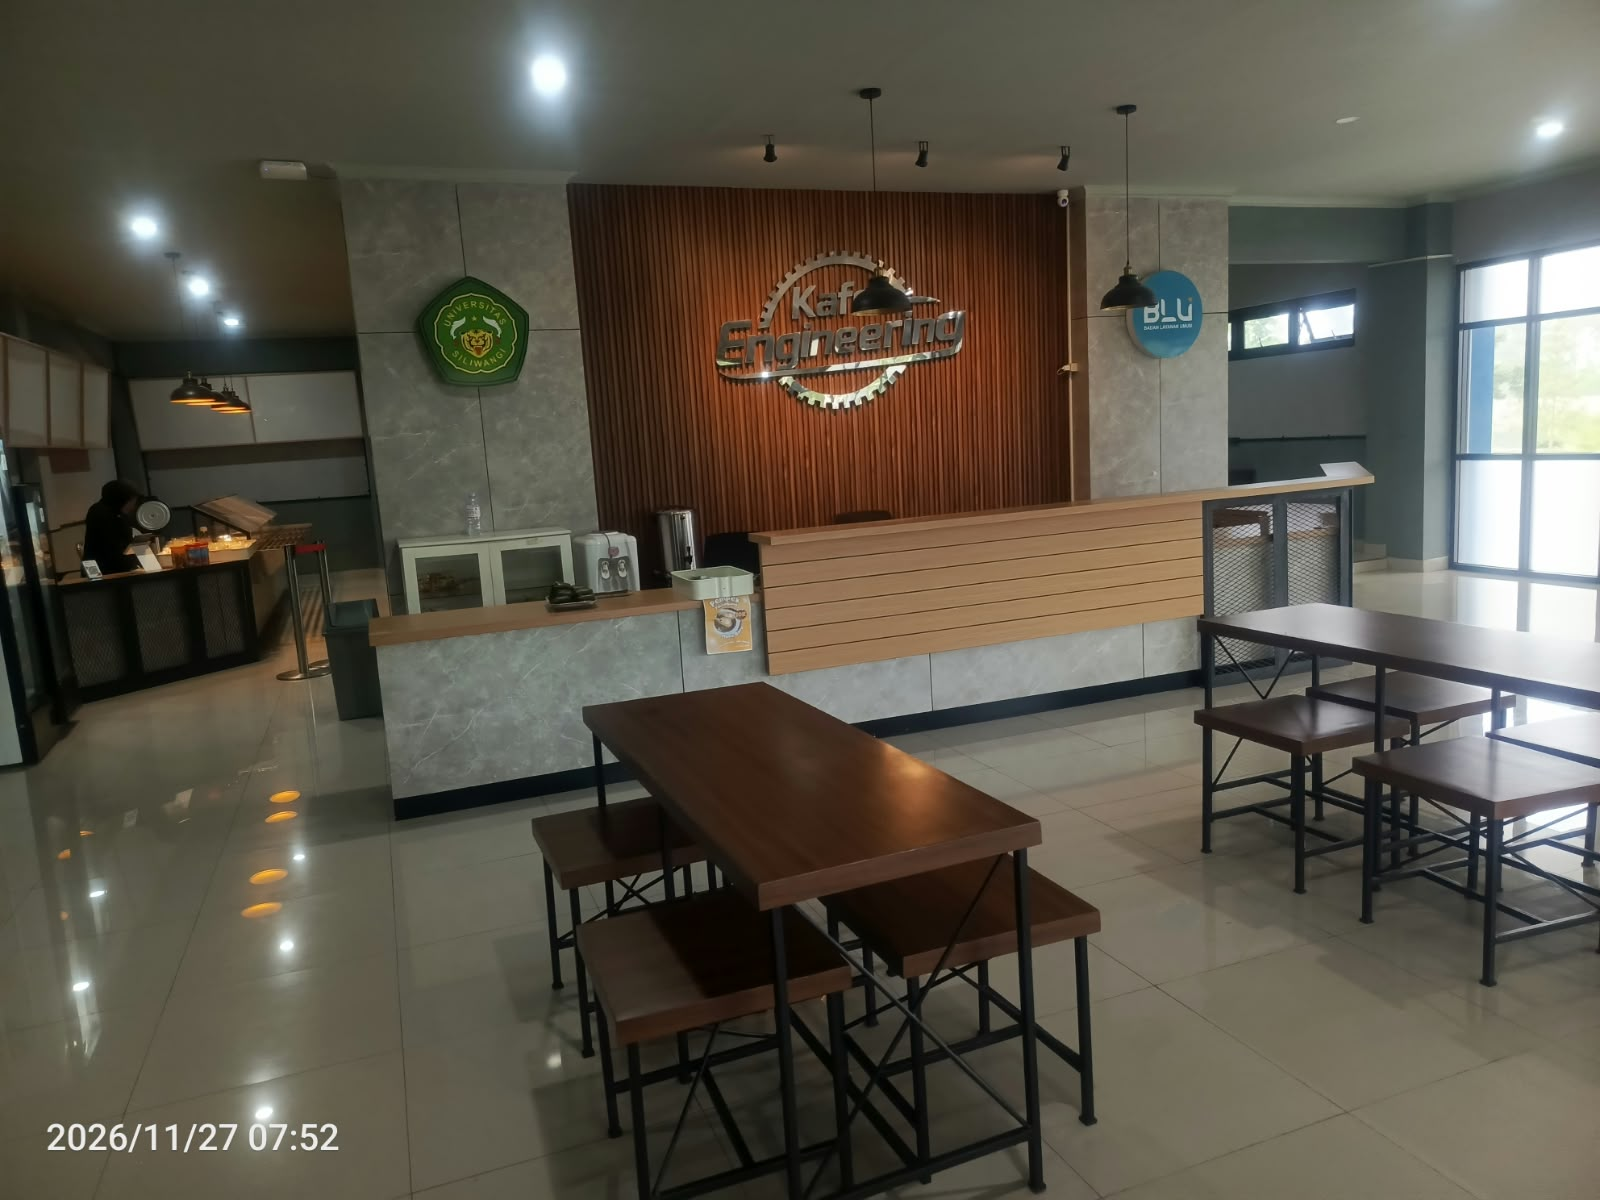
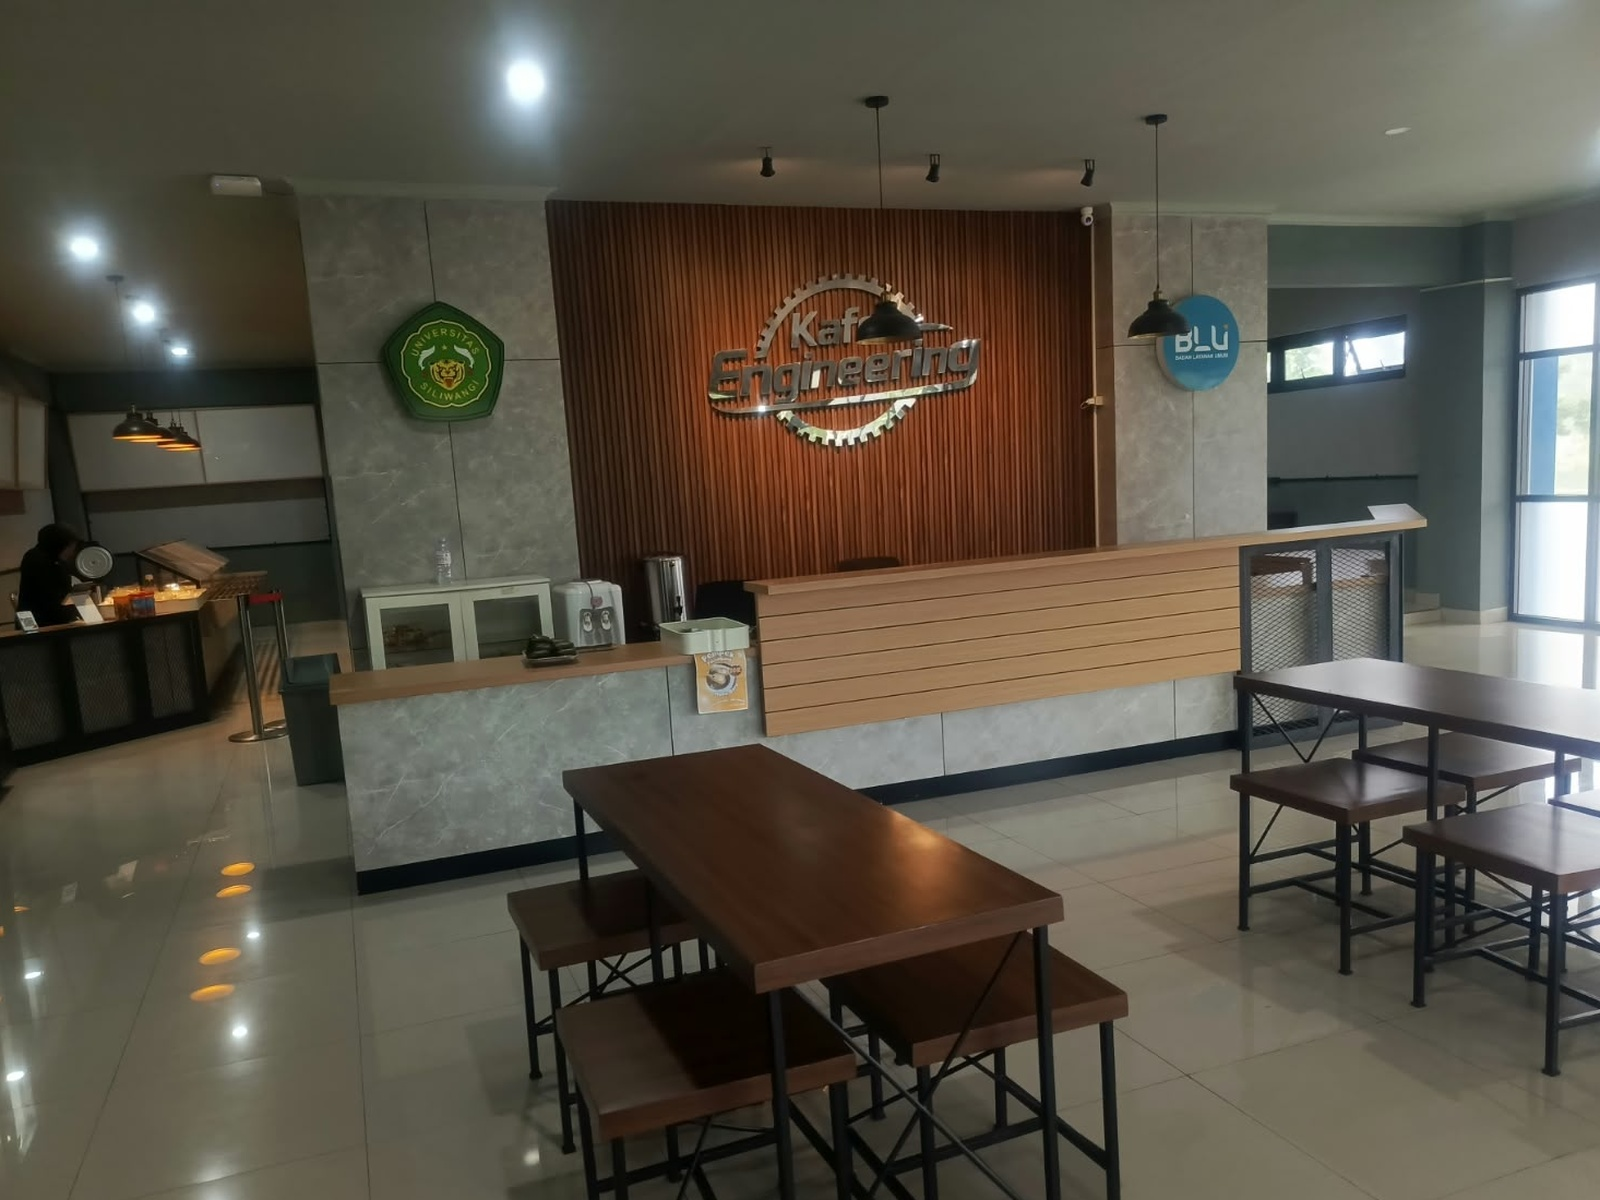
fix: hapus section standar layanan kantin dan bersihkan watermark tanggal di seluruh foto kantin

diff --git a/resources/views/pages/kantin.blade.php b/resources/views/pages/kantin.blade.php
@@ -27,92 +27,8 @@
         </div>
     </section>
 
-    {{-- Fitur Unggulan Kantin --}}
-    <section class="py-12 md:py-16 bg-slate-50">
-        <div class="max-w-7xl mx-auto px-4 sm:px-6 lg:px-8">
-            <div class="text-center max-w-2xl mx-auto mb-12">
-                <span class="text-blue-700 font-bold uppercase text-xs tracking-wider">Kenyamanan &amp; Kebersihan</span>
-                <h2 class="text-3xl sm:text-4xl font-extrabold text-slate-900 mt-2 font-heading">Standar Layanan Kantin</h2>
-                <div class="w-14 h-1 bg-amber-500 mx-auto mt-3.5 rounded-full"></div>
-                <p class="text-slate-500 mt-3 text-xs sm:text-sm leading-relaxed">
-                    Dikelola secara terpadu oleh universitas bersama para mitra penyedia kuliner yang lolos kurasi mutu sanitasi pangan dan kehalalan produk.
-                </p>
-            </div>
-
-            {{-- 4 Card Fitur --}}
-            <div class="grid grid-cols-1 md:grid-cols-2 lg:grid-cols-4 gap-6 mb-12">
-                
-                {{-- Card 1 --}}
-                <div class="bg-white rounded-3xl p-6 border border-slate-200 shadow-sm hover:shadow-xl transition-all duration-300 flex flex-col justify-between group">
-                    <div>
-                        <div class="w-12 h-12 rounded-2xl bg-emerald-100 text-emerald-700 flex items-center justify-center text-xl mb-4 group-hover:scale-110 transition-transform">
-                            <i class="fa-solid fa-certificate"></i>
-                        </div>
-                        <h3 class="font-bold text-slate-900 text-base font-heading">100% Halal &amp; Higienis</h3>
-                        <p class="text-xs text-slate-600 mt-2 leading-relaxed">
-                            Seluruh tenan makanan dan minuman wajib memenuhi standar kehalalan bahan baku serta inspeksi sanitasi berkala dari tim kesehatan kampus.
-                        </p>
-                    </div>
-                    <div class="pt-4 mt-4 border-t border-slate-100 text-[11px] text-emerald-600 font-semibold flex items-center gap-1.5">
-                        <i class="fa-solid fa-shield-halved text-[10px]"></i> Pengawasan Berkala
-                    </div>
-                </div>
-
-                {{-- Card 2 --}}
-                <div class="bg-white rounded-3xl p-6 border border-slate-200 shadow-sm hover:shadow-xl transition-all duration-300 flex flex-col justify-between group">
-                    <div>
-                        <div class="w-12 h-12 rounded-2xl bg-amber-100 text-amber-700 flex items-center justify-center text-xl mb-4 group-hover:scale-110 transition-transform">
-                            <i class="fa-solid fa-wallet"></i>
-                        </div>
-                        <h3 class="font-bold text-slate-900 text-base font-heading">Harga Ramah Mahasiswa</h3>
-                        <p class="text-xs text-slate-600 mt-2 leading-relaxed">
-                            Menu makanan dan minuman dipatok dengan standar tarif yang terjangkau bagi mahasiswa tanpa mengorbankan kualitas rasa dan porsi kecukupan gizi.
-                        </p>
-                    </div>
-                    <div class="pt-4 mt-4 border-t border-slate-100 text-[11px] text-amber-600 font-semibold flex items-center gap-1.5">
-                        <i class="fa-solid fa-tag text-[10px]"></i> Standar Tarif Kampus
-                    </div>
-                </div>
-
-                {{-- Card 3 --}}
-                <div class="bg-white rounded-3xl p-6 border border-slate-200 shadow-sm hover:shadow-xl transition-all duration-300 flex flex-col justify-between group">
-                    <div>
-                        <div class="w-12 h-12 rounded-2xl bg-blue-100 text-blue-700 flex items-center justify-center text-xl mb-4 group-hover:scale-110 transition-transform">
-                            <i class="fa-solid fa-qrcode"></i>
-                        </div>
-                        <h3 class="font-bold text-slate-900 text-base font-heading">Transaksi Digital QRIS</h3>
-                        <p class="text-xs text-slate-600 mt-2 leading-relaxed">
-                            Mendukung transaksi non-tunai berbasis QRIS nasional dan e-wallet (GoPay, OVO, ShopeePay, Dana, Mobile Banking) untuk kemudahan dan kecepatan transaksi.
-                        </p>
-                    </div>
-                    <div class="pt-4 mt-4 border-t border-slate-100 text-[11px] text-blue-600 font-semibold flex items-center gap-1.5">
-                        <i class="fa-solid fa-mobile-screen-button text-[10px]"></i> Cashless &amp; Cepat
-                    </div>
-                </div>
-
-                {{-- Card 4 --}}
-                <div class="bg-white rounded-3xl p-6 border border-slate-200 shadow-sm hover:shadow-xl transition-all duration-300 flex flex-col justify-between group">
-                    <div>
-                        <div class="w-12 h-12 rounded-2xl bg-blue-100 text-blue-700 flex items-center justify-center text-xl mb-4 group-hover:scale-110 transition-transform">
-                            <i class="fa-solid fa-tree"></i>
-                        </div>
-                        <h3 class="font-bold text-slate-900 text-base font-heading">Suasana Semi-Outdoor</h3>
-                        <p class="text-xs text-slate-600 mt-2 leading-relaxed">
-                            Konsep arsitektur terbuka yang memaksimalkan hembusan angin segar dan pemandangan hijau kawasan Mugarsari, cocok untuk bersantai dan diskusi kelompok.
-                        </p>
-                    </div>
-                    <div class="pt-4 mt-4 border-t border-slate-100 text-[11px] text-blue-600 font-semibold flex items-center gap-1.5">
-                        <i class="fa-solid fa-wind text-[10px]"></i> Sirkulasi Udara Bebas
-                    </div>
-                </div>
-
-            </div>
-
-        </div>
-    </section>
-
     {{-- Galeri Foto Dokumentasi Kantin --}}
-    <section class="py-12 md:py-16 bg-white border-t border-slate-200">
+    <section class="py-12 md:py-16 bg-slate-50 min-h-screen">
         <div class="max-w-7xl mx-auto px-4 sm:px-6 lg:px-8">
             <div class="text-center max-w-xl mx-auto mb-12">
                 <span class="text-blue-700 font-bold uppercase text-xs tracking-wider">Dokumentasi Fasilitas</span>
